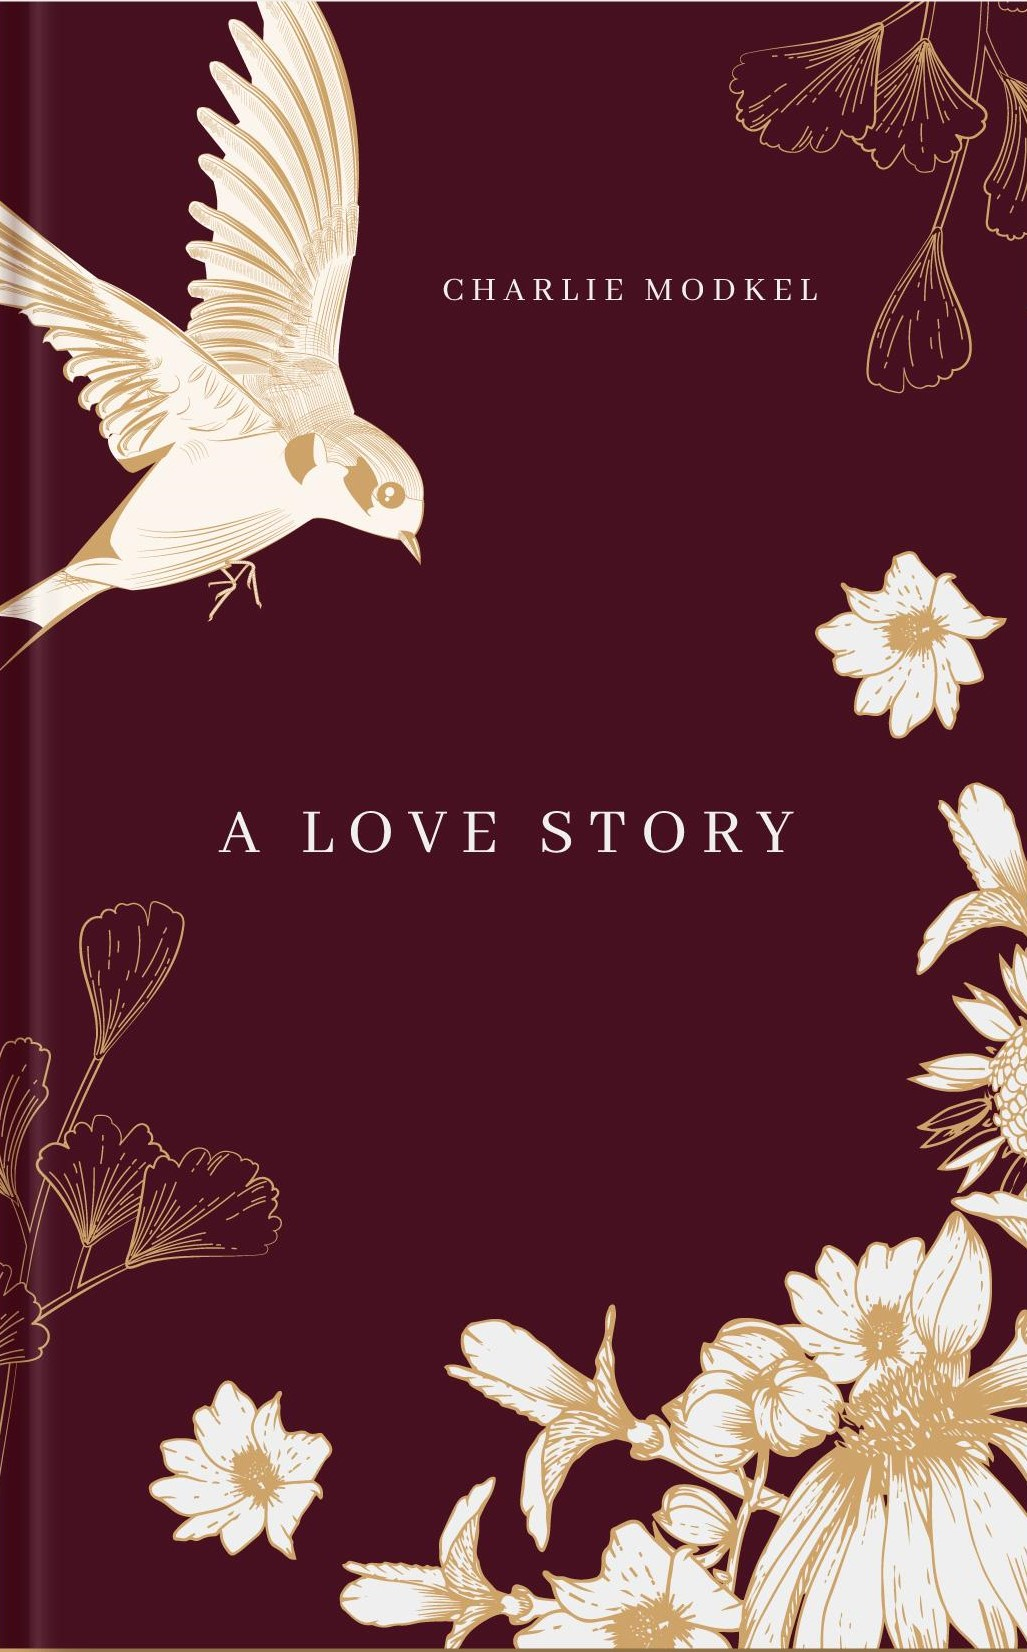
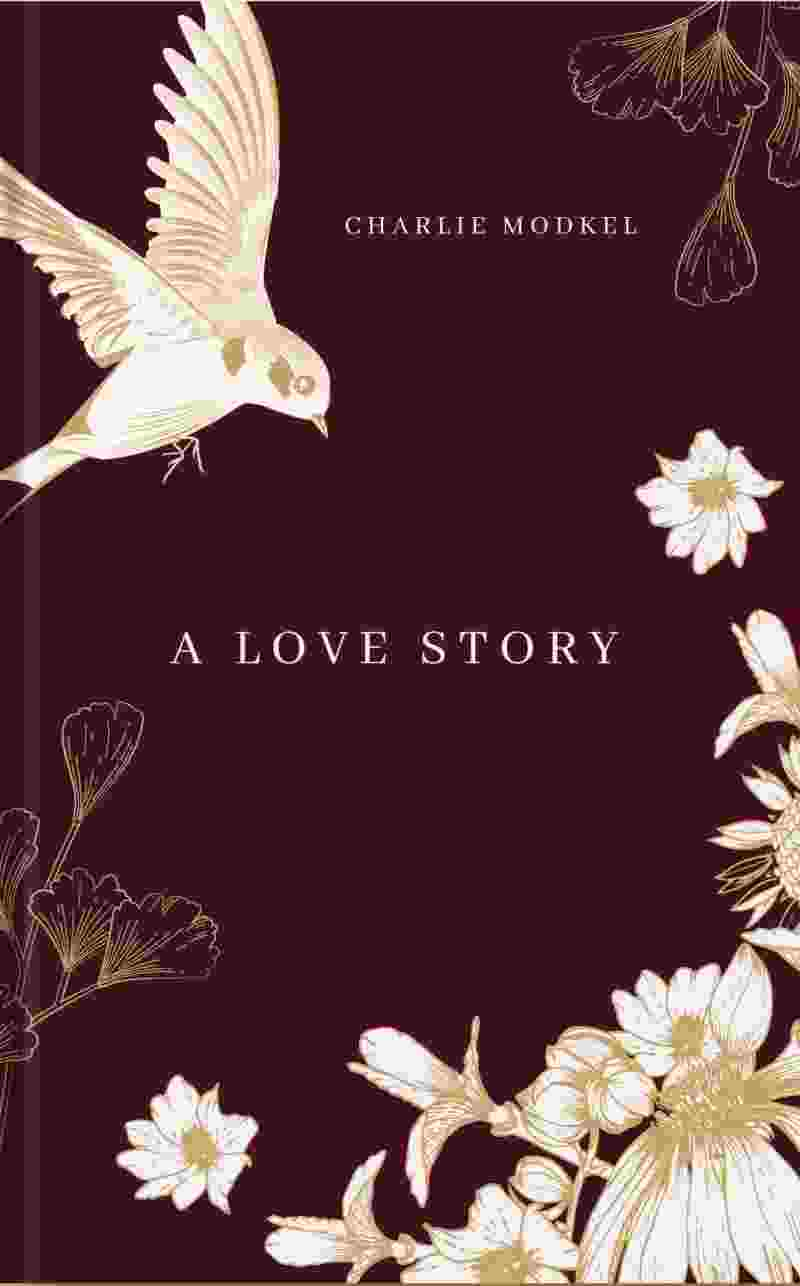
Reducing the size of the images in Front folder

diff --git a/Front/asets/JS/bookDetail.js b/Front/asets/JS/bookDetail.js
@@ -20,7 +20,7 @@ function closeM() {
 
 close.addEventListener("click", (e)=>{
    e.preventDefault();
-   closeM()
+   closeM();
 });
 backdrop.addEventListener("click", closeM);
 confirm.addEventListener("click", () => {
